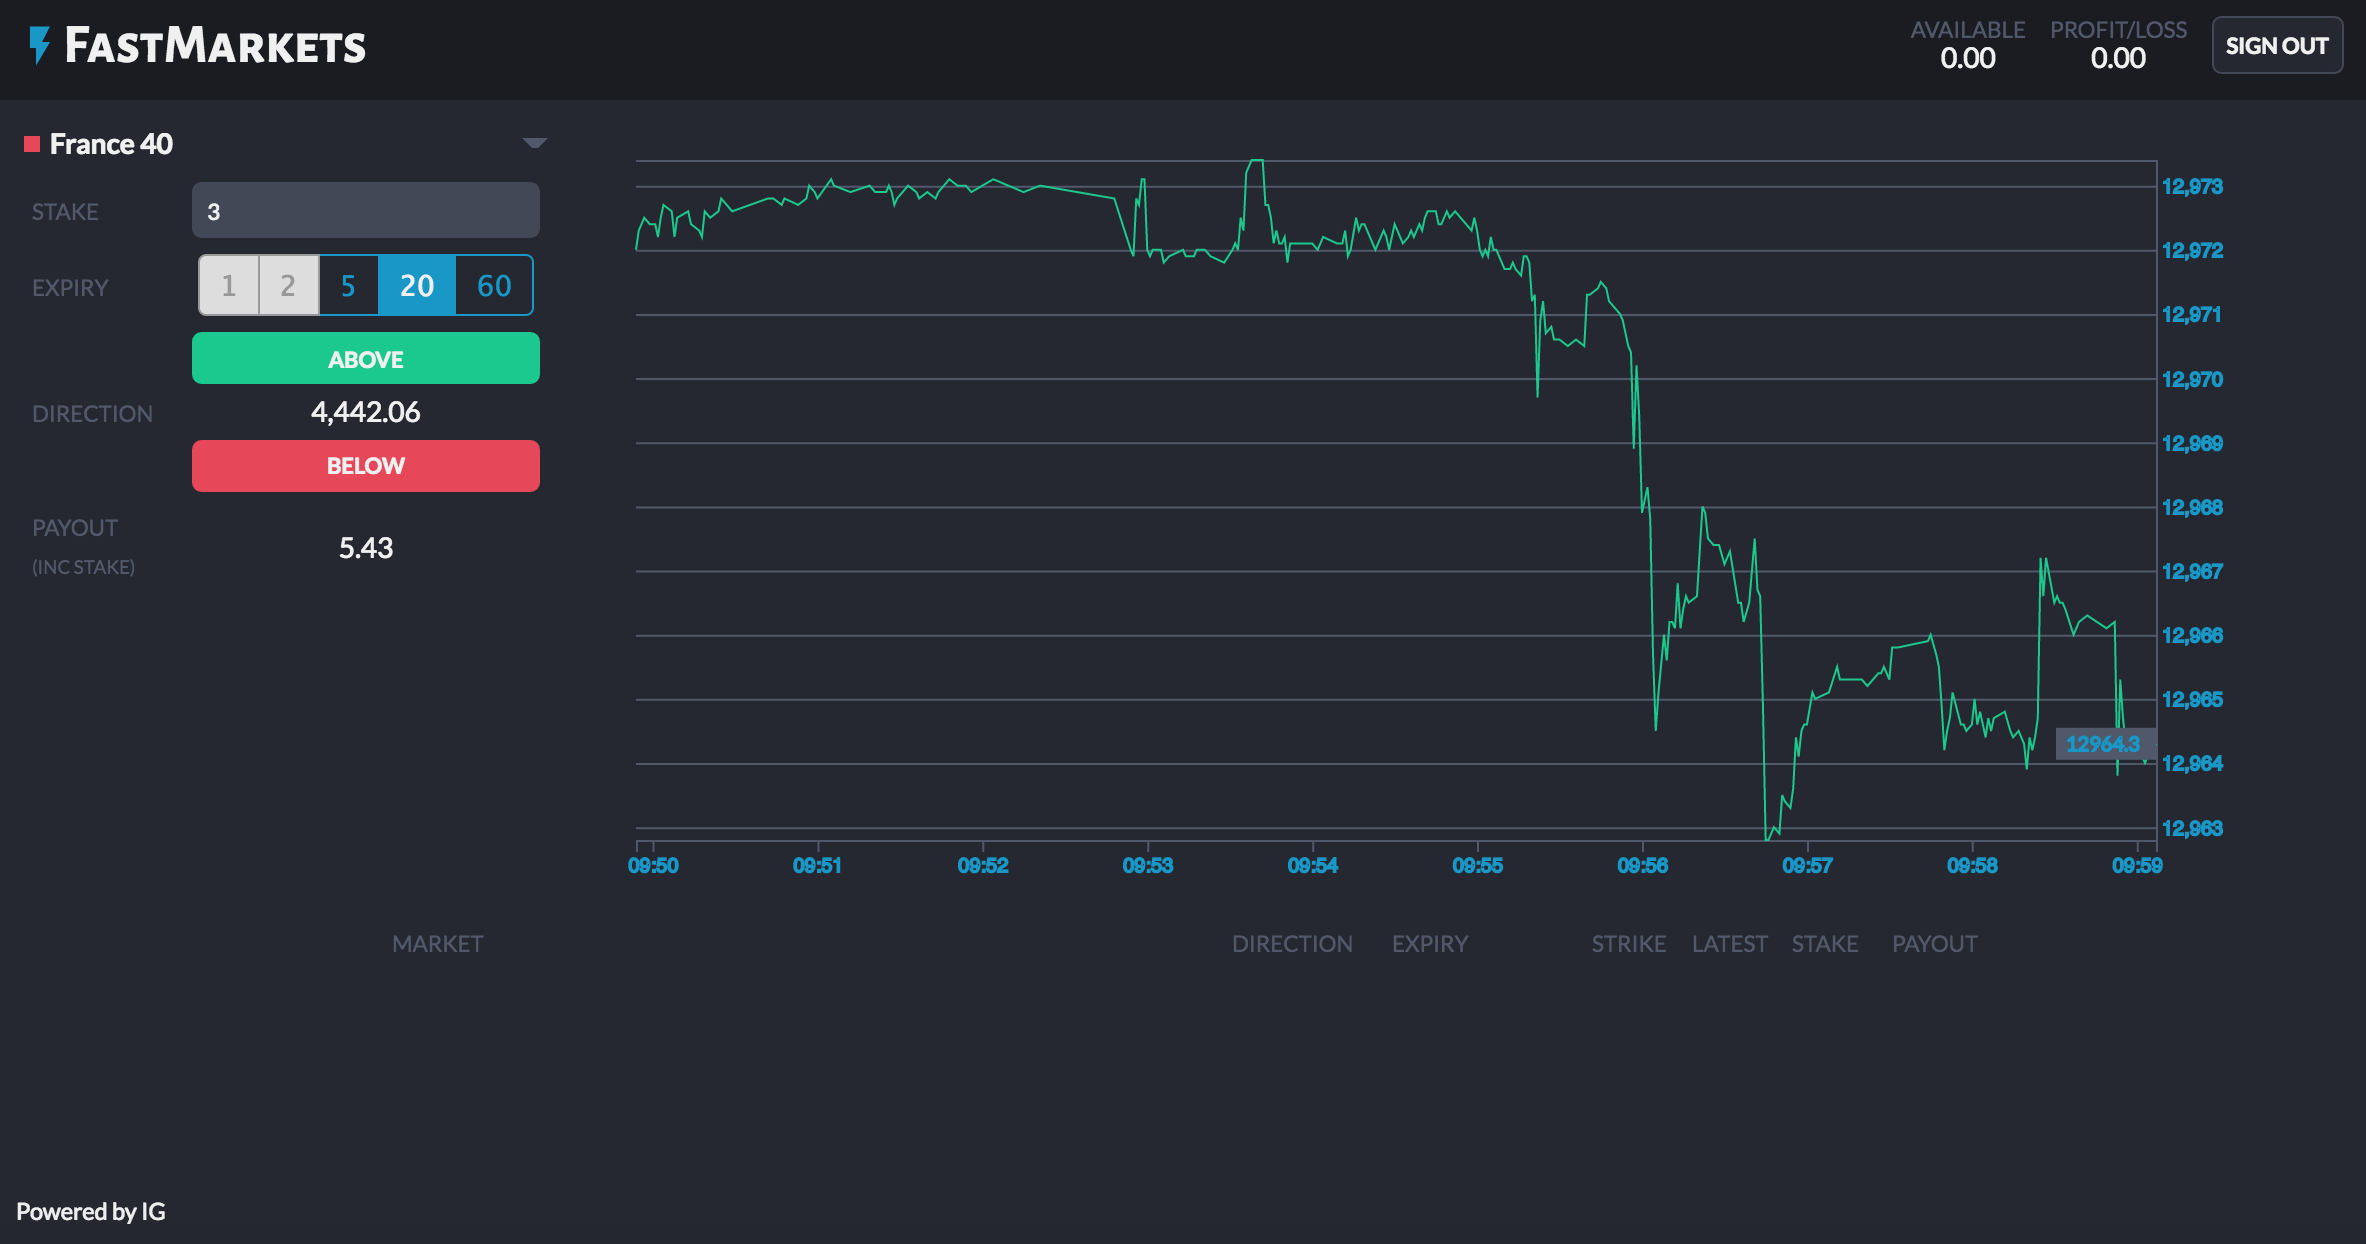
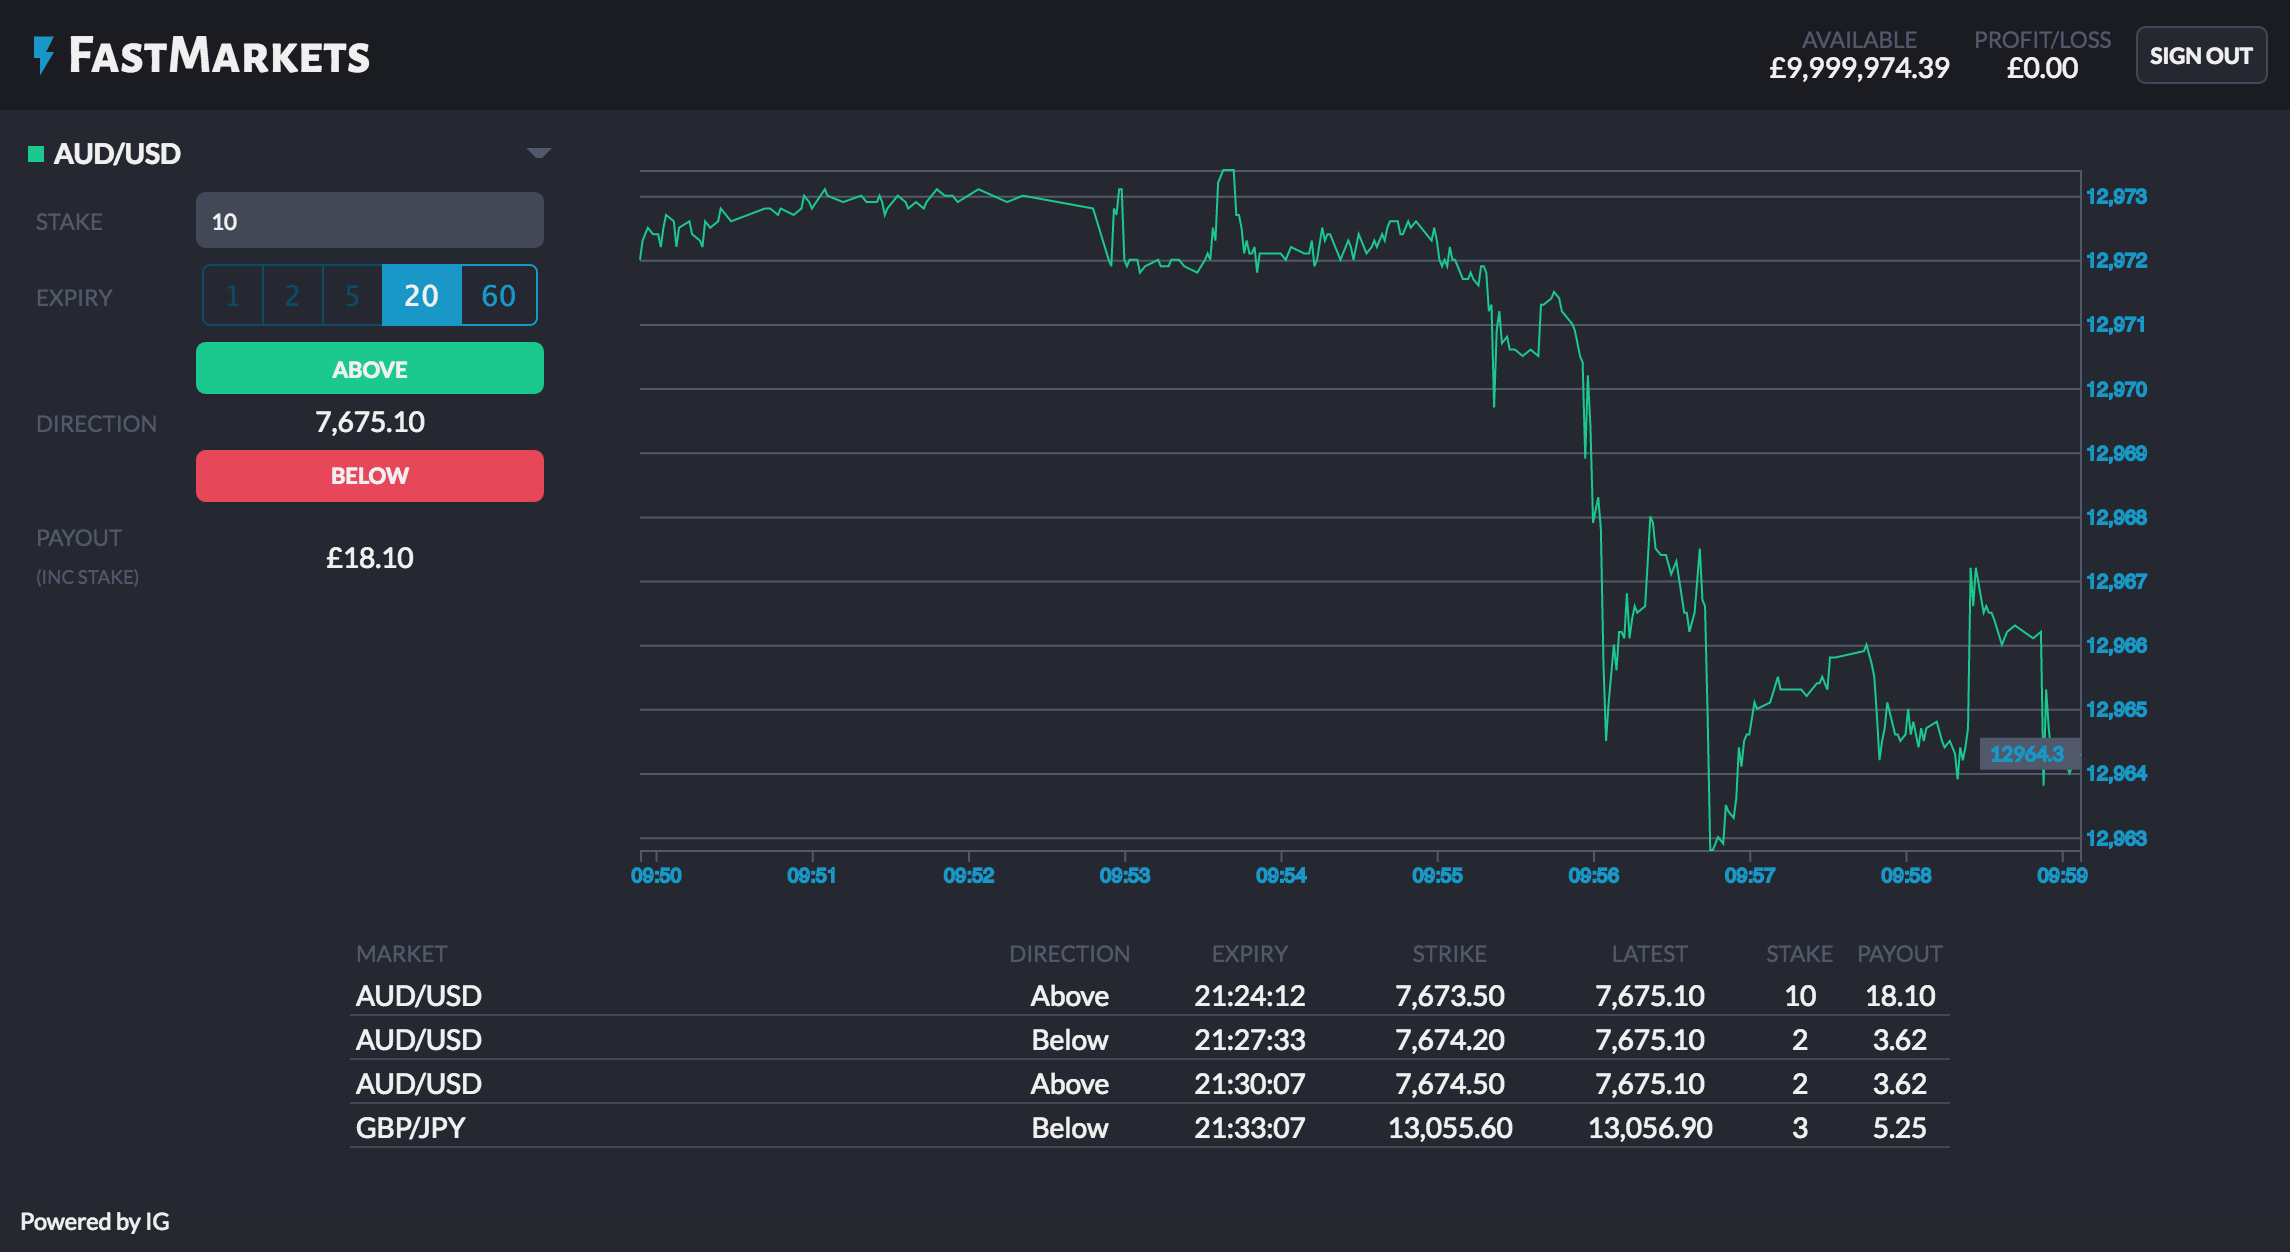
add currencies

diff --git a/src/js/containers/header.js b/src/js/containers/header.js
@@ -20,6 +20,7 @@ class Header extends Component {
       availableCash,
       isAuthenticated,
       profitLoss,
+      currency,
     } = this.props;
 
     if (isAuthenticated) {
@@ -27,11 +28,11 @@ class Header extends Component {
         <ul className="nav__navbar">
           <li className="nav__navbar__item" key={1}>
             <div className="nav__navbar__item__header">available</div>
-            <span>{formatCurrency(availableCash)}</span>
+            <span>{formatCurrency(availableCash, currency)}</span>
           </li>
           <li className="nav__navbar__item" key={2}>
             <div className="nav__navbar__item__header">profit/loss</div>
-            <span>{formatCurrency(profitLoss)}</span>
+            <span>{formatCurrency(profitLoss, currency)}</span>
           </li>
           <li className="nav__navbar__item" key={3}>
             <button className="btn btn--slim btn--secondary" onClick={this._handleLogout}>
@@ -57,6 +58,7 @@ Header.propTypes = {
     PropTypes.number,
     PropTypes.string
   ]),
+  currency: PropTypes.string,
   unauthUser: PropTypes.func.isRequired,
   isAuthenticated: PropTypes.bool,
   profitLoss: PropTypes.oneOfType([
@@ -74,10 +76,12 @@ function mapStateToProps(state) {
   const {
      availableCash,
      profitLoss,
+     currency,
   } = session;
 
   return {
     availableCash,
+    currency,
     isAuthenticated: isAuthenticated(state),
     profitLoss,
   };

diff --git a/src/js/containers/positions/index.js b/src/js/containers/positions/index.js
@@ -4,12 +4,30 @@ import {
   fetchPositions
 } from '../../actions';
 import PositionsGrid from '../../components/positions';
+import PositionsRow from '../../components/positions/row';
 
 class Positions extends Component {
 
   componentWillMount() {
     this.props.fetchPositions();
   }
+
+  renderRows() {
+    const {
+      positions,
+      markets,
+    } = this.props;
+    if (!positions) {
+      return null;
+    }
+    return positions.map((position) => {
+      // TODO - move to util.
+      const market = markets.find((m) => m.epic === position.epic);
+      return (
+        <PositionsRow position={position} market={market} key={position.dealId} />
+      );
+    });
+  };
 
   render() {
     const {
@@ -18,9 +36,9 @@ class Positions extends Component {
 
     // TODO - use children here and render rows to pass latest price
     return (
-      <PositionsGrid
-        positions={positions}
-      />
+      <PositionsGrid>
+        {this.renderRows()}
+      </PositionsGrid>
     );
   }
 }
@@ -28,15 +46,20 @@ class Positions extends Component {
 Positions.propTypes = {
   fetchPositions: PropTypes.func.isRequired,
   positions: PropTypes.arrayOf(PropTypes.object),
+  markets: PropTypes.arrayOf(PropTypes.object),
 };
 
 function mapStateToProps(state) {
   const {
     positions,
+    markets: {
+      markets,
+    },
   } = state;
 
   return {
     positions,
+    markets,
   };
 }
 

diff --git a/src/js/components/ticket/index.js b/src/js/components/ticket/index.js
@@ -17,6 +17,7 @@ const TicketForm = (props) => {
     payout,
     expiry,
     strike,
+    currency,
     size='',
   } = props;
 
@@ -87,7 +88,7 @@ const TicketForm = (props) => {
             </div>
             <div className="ticket-form__group__field">
               <div className="ticket-form__direction__strike">
-                {conditionalRender(payout, formatCurrency(payout), '-')}
+                {conditionalRender(payout, formatCurrency(payout, currency), '-')}
               </div>
             </div>
           </div>
@@ -101,6 +102,7 @@ TicketForm.propTypes = {
   minDealSize: PropTypes.number.isRequired,
   minExpiry: PropTypes.number.isRequired,
   maxExpiry: PropTypes.number.isRequired,
+  currency: PropTypes.string,
   size: PropTypes.oneOfType([PropTypes.string, PropTypes.number]),
   expiry: PropTypes.string,
   strike: PropTypes.oneOfType([PropTypes.string, PropTypes.number]),

diff --git a/src/js/components/positions/index.js b/src/js/components/positions/index.js
@@ -1,19 +1,11 @@
 import React, { PropTypes } from 'react';
-import Row from './row';
+
 /**
  * Positions for app.
  * @param {Object} props
  * @return {Element}
  */
 const Positions = (props) => {
-
-  const renderRows = (rows=[]) => {
-    return rows.map((position) => {
-      return (
-        <Row position={position} key={position.dealId} />
-      );
-    });
-  };
 
   return (
     <section className="positions">
@@ -43,14 +35,14 @@ const Positions = (props) => {
         </div>
       </section>
       <section className="positions__body">
-        {renderRows(props.positions)}
+        {props.children}
       </section>
     </section>
   );
 };
 
 Positions.propTypes = {
-  positions: PropTypes.arrayOf(PropTypes.object).isRequired,
+  children: PropTypes.arrayOf(PropTypes.element),
 };
 
 export default Positions;

diff --git a/src/js/containers/ticket/index.js b/src/js/containers/ticket/index.js
@@ -44,6 +44,7 @@ class Ticket extends Component {
   render() {
     const {
       selectedMarket: {
+        currency,
         minDealSize,
         strike,
         minExpiry,
@@ -56,6 +57,7 @@ class Ticket extends Component {
 
     return (
       <TicketForm
+        currency={currency}
         minDealSize={minDealSize}
         strike={strike}
         minExpiry={minExpiry}
@@ -75,7 +77,7 @@ Ticket.propTypes = {
   accountId: PropTypes.string.isRequired,
   payout: PropTypes.number,
   selectedMarket: PropTypes.object.isRequired,
-  size: PropTypes.number,
+  size: PropTypes.oneOfType([PropTypes.string, PropTypes.number]),
   expiry: PropTypes.string,
   submitTrade: PropTypes.func.isRequired,
   sizeUpdate: PropTypes.func.isRequired,

diff --git a/src/js/clients/api.js b/src/js/clients/api.js
@@ -26,6 +26,7 @@ const parseSessionResp = (session) => {
       available: availableCash,
       profitLoss,
     },
+    currencySymbol: currency,
     currentAccountId: accountId,
     ['CST']: cst,
     lightstreamerEndpoint,
@@ -35,6 +36,7 @@ const parseSessionResp = (session) => {
   return {
     accountId,
     cst,
+    currency,
     lightstreamerEndpoint,
     xst,
     availableCash,
@@ -53,7 +55,9 @@ const parseMarketNavigationResp = ({ markets }) => {
 };
 
 const parseMarketResp = ({ instrument, snapshot, dealingRules }) => {
+  // TODO - defensive
   return {
+    currency: instrument.currencies[0].symbol,
     epic: instrument.epic,
     instrumentName: instrument.name,
     marketStatus: snapshot.marketStatus,

diff --git a/src/js/components/positions/row.js b/src/js/components/positions/row.js
@@ -17,6 +17,9 @@ const Row = (props) => {
       strikeLevel,
       payoutAmount,
     },
+    market: {
+      strike,
+    }
   } = props;
 
   return (
@@ -34,7 +37,7 @@ const Row = (props) => {
         {formatCurrency(strikeLevel)}
       </div>
       <div className="positions__cell positions__cell__latest">
-        {'TODO'}
+        {formatCurrency(strike)}
       </div>
       <div className="positions__cell positions__cell__stake">
         {size}
@@ -48,6 +51,7 @@ const Row = (props) => {
 
 Row.propTypes = {
   position: PropTypes.object.isRequired,
+  market: PropTypes.object.isRequired,
 };
 
 export default Row;

diff --git a/src/js/utils/index.js b/src/js/utils/index.js
@@ -48,8 +48,8 @@ export const generateDealReference = (accountId, timestamp=new Date().getTime())
   return `MM-${timestamp}-${accountId}`;
 };
 
-export const formatCurrency = (value) => {
-  return numeral(value).format('0,0.00');
+export const formatCurrency = (value, currency='') => {
+  return `${currency}${numeral(value).format('0,0.00')}`;
 };
 
 export const formatTime = (timestamp) => {

diff --git a/src/styles/positions.less b/src/styles/positions.less
@@ -1,4 +1,4 @@
-.positions_body {
+.positions__body {
   max-height: 110px;
   overflow: scroll;
 }
